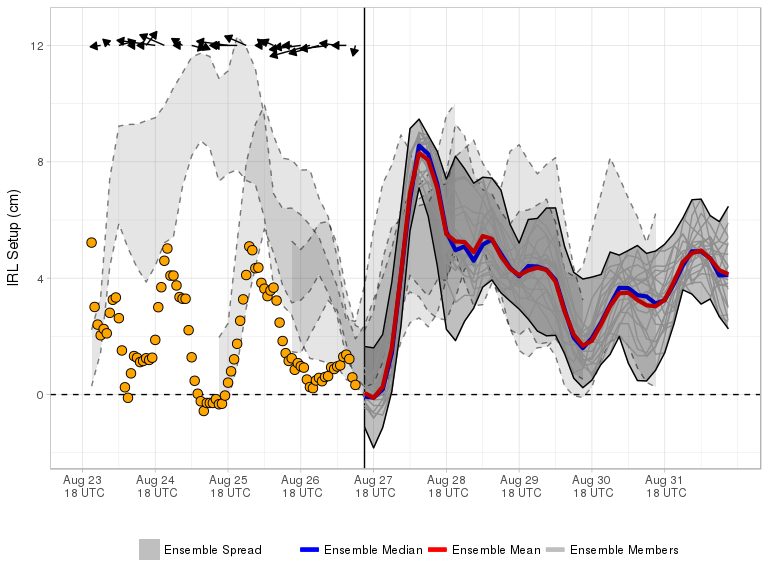
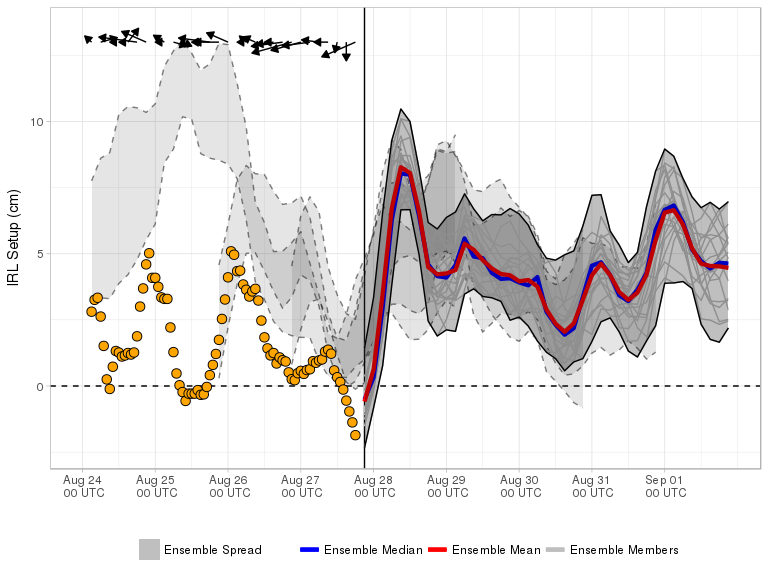
Forecast Update

diff --git a/docs/index.md b/docs/index.md
@@ -1,9 +1,9 @@
-Current Forecast 2018-08-27, Cycle 06 UTC
+Current Forecast 2018-08-27, Cycle 12 UTC
 -----------------------------------------
 
 [![](img/raw_setup.png)](https://fit-winds.github.io/IRLSetup/img/raw_setup.png)
 
-> Forecast valid 2018-08-27 09:01:47.
+> Forecast valid 2018-08-27 14:32:36.
 
 Explanation
 -----------
@@ -23,7 +23,7 @@ Ensemble Forecast System
 cycles. Calculation of the IRL setup is performed shortly after a new
 GEFS cycle is made available on the [data access
 link](http://www.ftp.ncep.noaa.gov/data/nccf/com/gens/prod/). The
-current cycle 2018-08-27 06 UTC 0.5° GEFS mean and median forecasts of
+current cycle 2018-08-27 12 UTC 0.5° GEFS mean and median forecasts of
 setup are represented by the red and blue curves, respectively. Ensemble
 spread from the current and three previous GEFS runs are shaded grey and
 bounded by solid and dashed curves, respectively.
